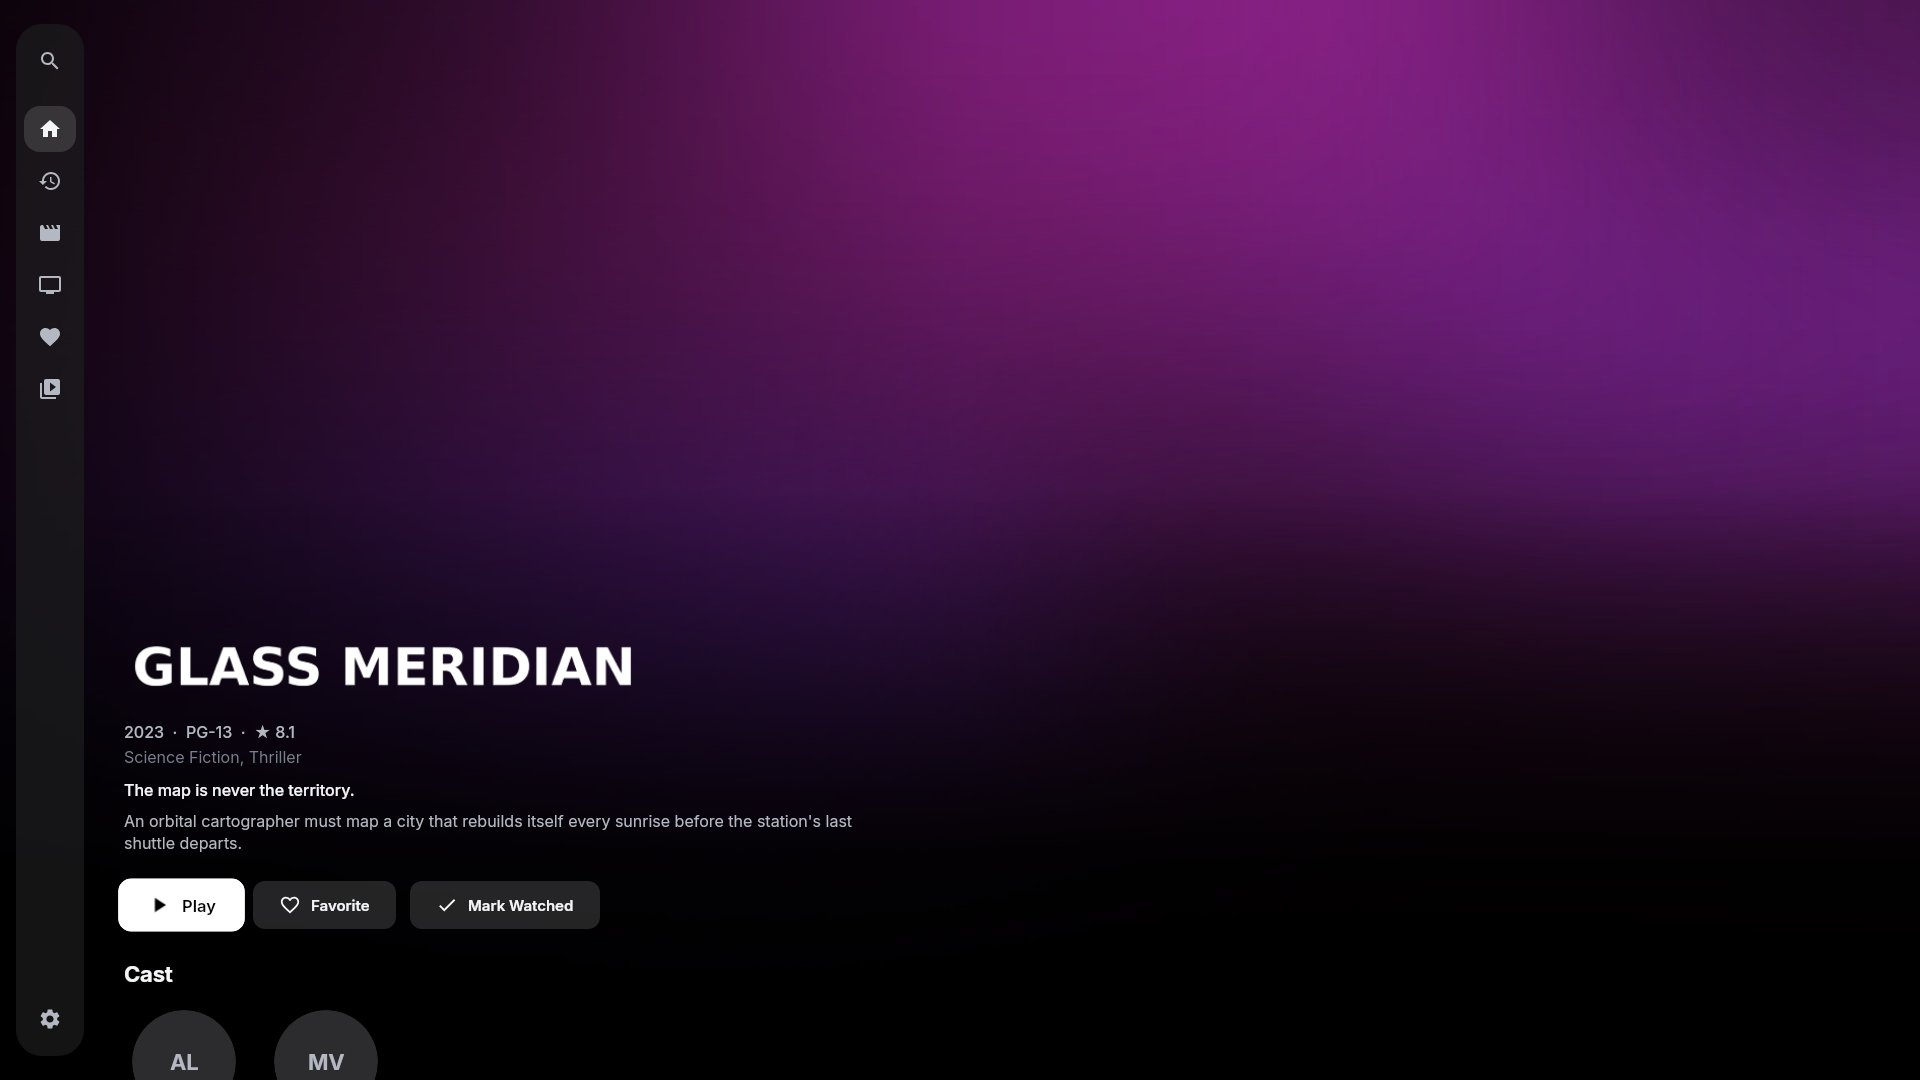
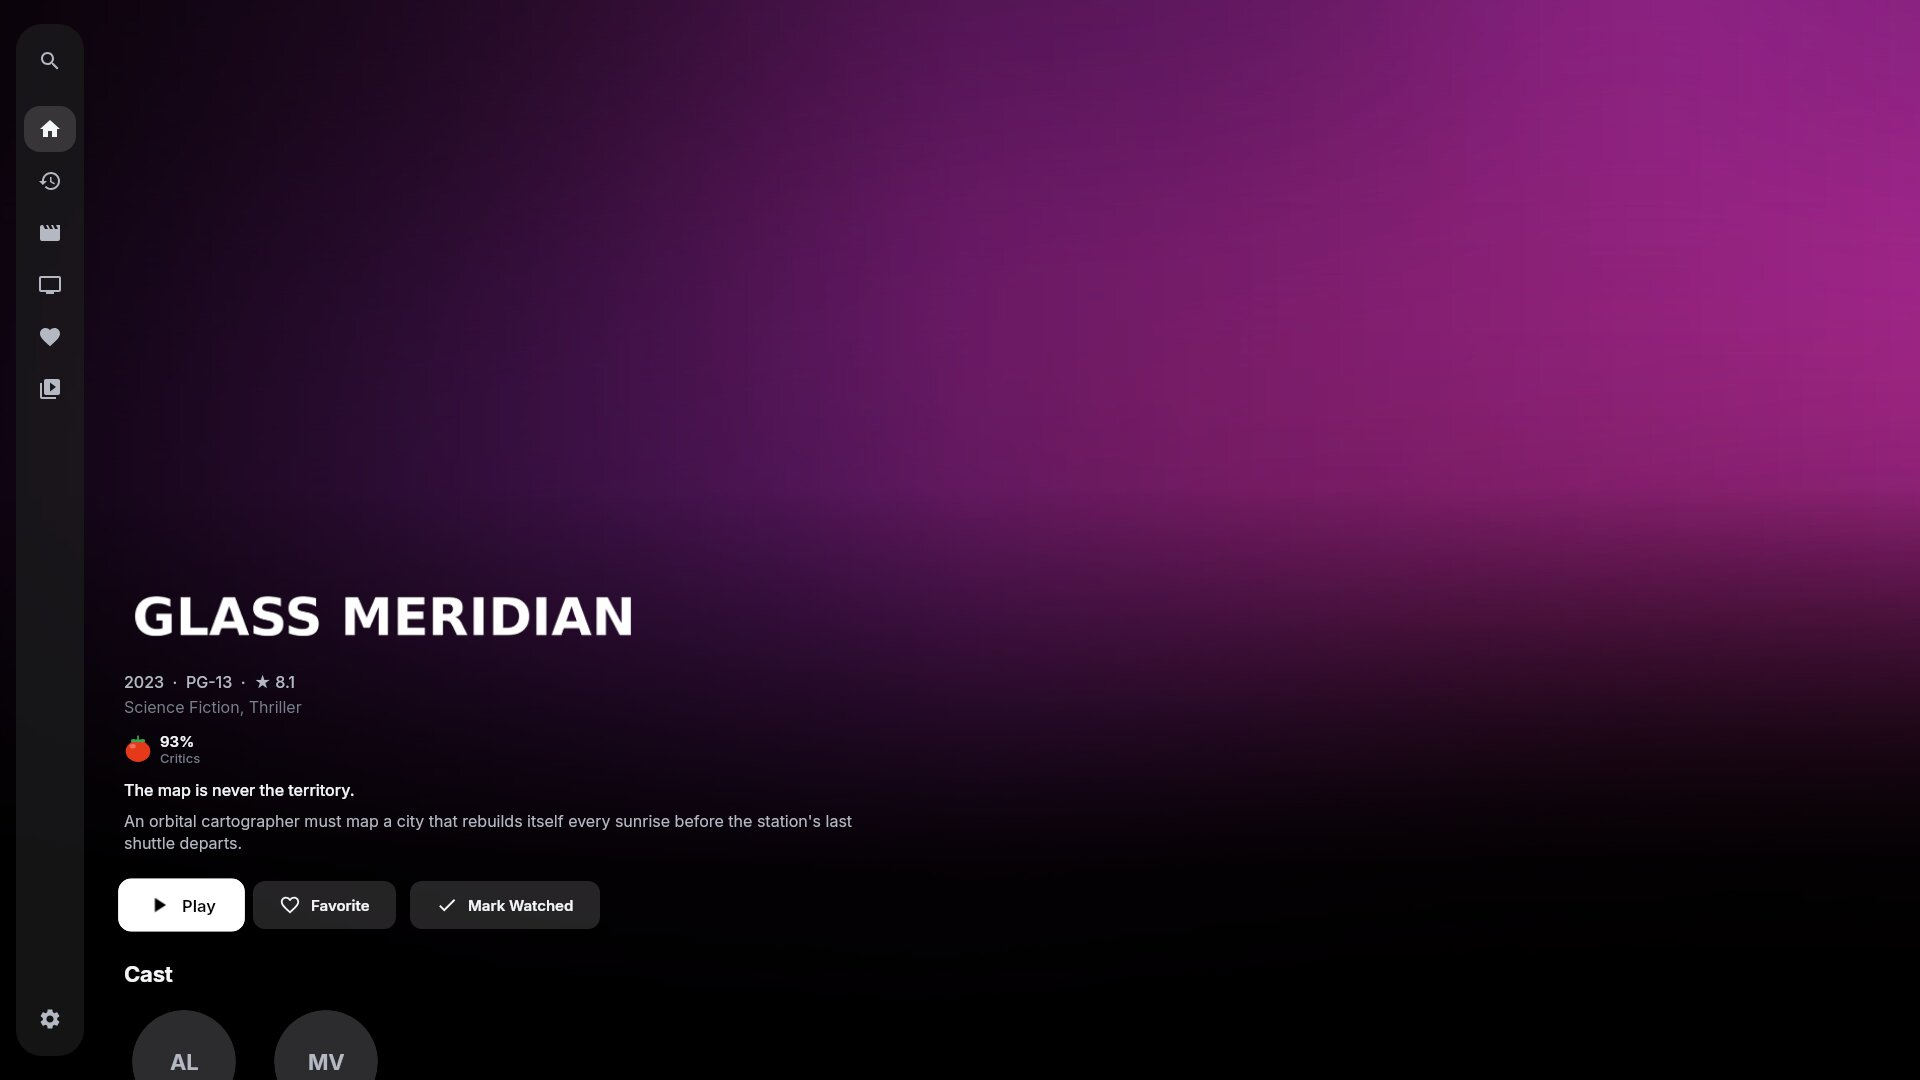
Docs: Dolby Vision and ratings test results and screenshots
Claude-Session: https://claude.ai/code/session_012yVGuueTZLX3f5Rno8LNU3

Changed region(s): [[0.4688, 0.0, 1.0, 0.6722], [0.3438, 0.0, 0.7188, 0.1222], [0.0625, 0.55, 0.3438, 0.7028]]

diff --git a/docs/TEST_RESULTS.md b/docs/TEST_RESULTS.md
@@ -34,6 +34,10 @@ manual claims. Each run publishes its raw reports and screenshots to the
 | Subtitle fonts | MKV font attachments recognised by extension, MIME type or codec |
 | Next Episode | offered from the credits start (chapters, segments or detection), else the final two minutes |
 | Intro/credits detection | recurring chapter lengths across a season → opening/ending; periodic chapters ignored; AniSkip via AniList title search + sequel walk, only for anime, only for missing kinds, title/year must match, Jellyfin token never sent to third parties, nothing sent when the setting is off |
+| Dolby Vision routing | per device type (DV TV with/without libdovi, Shield, HDR10 TV with a DV decoder, SDR TV, Windows/mpv): which `VideoRangeType`s go to the server for HEVC/AV1/VP9 and which path each profile takes (native, 7 → 8.1, base layer, server); DV codec strings |
+| Dolby Vision bitstream edits | enhancement-layer (NAL 63) removal keeps every other unit byte-for-byte; start-code scan across emulation-prevention bytes; HDR10+ SEI masking changes exactly one byte per message, leaves A/53 captions and suffix SEI alone and walks emulation-prevention bytes; non-Annex-B data untouched |
+| Ratings and reviews | MDBList parsing (critics, audience, IMDb + votes, Metacritic, Letterboxd); Trakt comments: spoiler-flagged, spoiler-tagged and one-line comments dropped, reviewer score from either field, private profiles show the username; no keys → server critic score only and no network calls; keys go only to their own service, no Jellyfin credentials leave; session cache and failure back-off; key sync through DisplayPreferences keeps other prefs |
+| Ratings UI (rendered) | ratings strip (fresh/rotten tomato, full/empty popcorn, IMDb, Metascore, Letterboxd), review cards with star scores, full-review overlay opened by click and closed by Back; screenshots saved with the test reports (`ui-shots/`) |
 
 **Result: all passing.**
 
@@ -51,6 +55,9 @@ and NFO metadata (`ci/make_artwork.py`), starts `jellyfin/jellyfin:latest` in Do
 | Ember Field | **4K HEVC Main10 HDR10** (PQ/BT.2020, mastering display + MaxCLL), E-AC3 5.1 |
 | Old Reel | MPEG-4 Part 2 + MP3 in AVI (needs server transcoding on TV) |
 | Skylark Isles S01E01–03 | **Anime-style ASS typesetting**: rotated and moving signs, `\clip`, `\t` transforms, karaoke OP romaji, overlapping dialogue, embedded font; HEVC Main10 |
+| Prism Coast | **Dolby Vision 8.1** (HDR10 base layer): RPUs from `dovi_tool generate`, muxed by mkvmerge (config record: profile 8, compatibility 1) |
+| Neon Tide | **Dolby Vision 5** (no base layer): dovi_tool's profile 5 test RPU on every frame (profile 5, compatibility 0) |
+| Velvet Static | **Dolby Vision 7 FEL** (UHD Blu-ray style): dovi_tool's FEL test RPU (profile 7, compatibility 6, EL present) |
 
 | | Check | Result |
 |---|---|---|
@@ -60,7 +67,7 @@ and NFO metadata (`ci/make_artwork.py`), starts `jellyfin/jellyfin:latest` in Do
 | ✅ | Session restore after relaunch | restored |
 | ✅ | Expired/invalid token detected | SessionExpired |
 | ✅ | Libraries | Movies (movies), TV Shows (tvshows) |
-| ✅ | Library pagination | 5 movies over 3 pages of 2, no duplicates |
+| ✅ | Library pagination | 8 movies over 4 pages of 2, no duplicates |
 | ✅ | Search | "meridian" → Glass Meridian |
 | ✅ | Metadata + artwork from server | overview, genres, poster served as image/jpeg, BlurHash present |
 | ✅ | HEVC Main10 + ASS → Direct Play on HEVC-capable Fire TV profile | hevc Main 10, 10-bit → DirectPlay; ASS delivery = Embed |
@@ -69,6 +76,11 @@ and NFO metadata (`ci/make_artwork.py`), starts `jellyfin/jellyfin:latest` in Do
 | ✅ | ASS burned in when the device has no ASS renderer | Transcode; ASS delivery = Encode (never flattened to SRT) |
 | ⚠ | 4K HDR10 Direct Play / server tone-mapping decisions | not verifiable on this server: Jellyfin 12.4's probe reported the PQ/BT.2020 sample as SDR (ffprobe in the CI log confirms the file is PQ). The HDR decision logic is covered by `DeviceProfileTest`. |
 | ✅ | 4K HDR10 → Direct Play on Windows/mpv | DirectPlay (mpv tone-maps locally) |
+| ✅ | Dolby Vision 8.1 (`DOVIWithHDR10`) | DV TV = Direct Play, HDR10 TV = Direct Play (base layer), SDR TV = server converts, Windows = Direct Play |
+| ✅ | Dolby Vision 5 (`DOVI`) | DV TV = Direct Play, HDR10 TV = server converts, SDR TV = server converts, Windows = Direct Play |
+| ✅ | Dolby Vision 7 FEL (`DOVIWithEL`) | DV TV (profile 8 decoder + libdovi) = Direct Play, HDR10 TV = Direct Play (base layer), SDR TV = server converts, Windows = Direct Play |
+| ✅ | Critic score from server metadata | `CriticRating` 93 → tomatometer 93% |
+| ✅ | Rating keys typed on one device reach another | written to the user's DisplayPreferences by one key store, read into another device's vault |
 | ✅ | MPEG-4/AVI → transcode on Fire TV, Direct Play on mpv | Fire TV = Transcode (ContainerNotSupported, VideoCodecNotSupported, AudioCodecNotSupported); Windows = DirectPlay |
 | ✅ | Multi-track MKV: audio/subtitle selection | 3 audio (aac, ac3, eac3), 3 subs; ja → jpn, forced → English Forced, smart → English Full; DirectPlay |
 | ✅ | External SRT sidecar detected | 2 subtitle streams, 1 external |
@@ -94,6 +106,13 @@ The MSI/EXE/portable build is packaged on `windows-2022`, then the **packaged** 
 | Old Reel: MPEG-4 Part 2 AVI, MP3 | PASS |
 | Seven Rivers: 3 audio / 3 subtitle tracks | PASS (forced subtitle rendered: `[FORCED] Sign: "Station"`) |
 | Skylark Isles S01E01–E03: HEVC Main10 + anime ASS | PASS |
+| Prism Coast: Dolby Vision 8.1 | PASS, `doviProfile=8 colormatrix=dolbyvision` |
+| Neon Tide: Dolby Vision 5 | PASS, `doviProfile=5 colormatrix=dolbyvision` |
+| Velvet Static: Dolby Vision 7 FEL | PASS, `doviProfile=7 colormatrix=dolbyvision` |
+
+`colormatrix=dolbyvision` means mpv picked up the RPU metadata and hands it to libplacebo, which
+applies the Dolby Vision reshaping when rendering with gpu-next (the self-test decodes with `vo=null`,
+so the reshaped picture itself is checked on real hardware only).
 
 The runner has no GPU, so decoding was software (`hwdec=no`); D3D11VA/NVDEC hardware decoding needs
 real hardware. The first run found that libmpv requires `vulkan-1.dll`, which PCs without GPU drivers
@@ -113,7 +132,7 @@ server. Debug builds log every remote key the activity receives, so the run prov
 * **D-pad Down** moved focus from the hero into the first rail; **Right + Select** opened that movie's
   detail page; **Back** returned Home with focus restored to the same card; **Back** again opened the
   sidebar; **Down + Select** in the sidebar switched to Up Next ✅
-* **D-pad Down ×4** in Settings reached the About page, which lists the detected decoders and
+* **D-pad Down ×4** in Settings reached the new Ratings page, and once more the About page, which lists the detected decoders and
   capabilities (Media3 1.8.0, software H.264/HEVC on the emulator, Keystore token storage) ✅
 * played video through Media3. The emulator's decoders were probed (software, ≤1080p) and the
   app chose **Direct Play** for H.264 MKV and asked the server to **transcode** HEVC Main10, with
@@ -122,14 +141,17 @@ server. Debug builds log every remote key the activity receives, so the run prov
   transform, karaoke romaji and overlapping dialogue, plus colours, `\pos` and simultaneous top/bottom
   lines in the styled sample (see screenshots) ✅
 * player controls (progress bar, elapsed/remaining, transport, audio/subtitle/info, next episode) ✅
-* no crashes (`FATAL EXCEPTION` check on logcat) ✅
+* no crashes (`FATAL EXCEPTION` check on logcat) ✅; every ExoPlayer playback above already runs
+  through the new Dolby Vision-aware video renderer. The emulator reports no DV decoder and no HDR
+  display (`Dolby Vision: display=false decoderProfiles=[]` in the log), so the DV-specific paths
+  themselves (native, 7 → 8.1, HDR10+ masking) can't run there
 * **MPV player** (switched with the `player` launch extra, same as the setting): the anime typesetting
   episode and the HEVC Main10 movie through server transcoding, and the multi-track MKV by Direct Play.
   Rotated/moving signs, `\clip` + `\t`, karaoke and fades rendered by mpv's libass; the server's font
   attachment was downloaded and used, matching ExoPlayer pixel-for-pixel in typeface ✅
 * **Server font attachments for transcodes**: both engines now use the MKV's embedded font when the
   server transcodes (ExoPlayer previously fell back to the system font) ✅
-* **R8-shrunk release APK** (13 MB): fresh install, sign-in with the remote, Home, then playback of
+* **R8-shrunk release APK** (with libmpv, FFmpeg and libdovi): fresh install, sign-in with the remote, Home, then playback of
   the anime ASS episode and the HEVC Main10 movie through Media3 + libass + FFmpeg, then the HEVC movie
   again through libmpv. The run fails on
   any crash, missing class or native-library error, or if the player never reaches the READY state ✅
@@ -146,6 +168,7 @@ re-running the job fixes it.
 
 ## Not tested in CI (needs real hardware)
 
-Fire TV hardware decoders (HEVC/AV1/DV), HDMI audio passthrough, HDR output on a TV, libass overlay
+Fire TV hardware decoders (HEVC/AV1/DV) and Dolby Vision output (native, profile 7 → 8.1 conversion,
+HDR10+ masking), live MDBList/Trakt calls with real keys, HDMI audio passthrough, HDR output on a TV, libass overlay
 performance on low-end sticks, Windows GPU decoding and HDR output, Xbox controllers. See
 [Known limitations](KNOWN_LIMITATIONS.md).

diff --git a/docs/screenshots/README.md b/docs/screenshots/README.md
@@ -12,16 +12,25 @@ library (all artwork, titles and video are generated, nothing third-party).
 | ![](android-tv-04-sidebar.jpg) Back → the sidebar opens | ![](android-tv-05-series-detail.jpg) Series detail with episodes |
 | ![](android-tv-07-player-yellow-intro-credits.jpg) Player: intro and credits ranges in yellow on the scrubber, Back, Episodes/Chapters/Subtitles/Info | ![](android-tv-06-libass-anime-typesetting.jpg) libass: rotated/moving signs, `\clip`+`\t`, karaoke |
 | ![](android-tv-10-player-episode-browser.jpg) In-player episode browser (Down from the timeline) | ![](android-tv-08-hevc-main10-styled-ass.jpg) Styled ASS (colours, `\pos`, simultaneous lines) |
-| ![](android-tv-09-about-capabilities.jpg) Settings → About: detected capabilities | |
+| ![](android-tv-09-about-capabilities.jpg) Settings → About: detected capabilities | ![](android-tv-11-settings-ratings.jpg) Settings → Ratings: optional MDBList / Trakt keys |
 
 ## Desktop (same shared UI; Linux build under Xvfb in CI)
 
 | | |
 |---|---|
 | ![](desktop-01-home-dark.jpg) Home (Dark) | ![](desktop-05-home-light.jpg) Home (Light) |
-| ![](desktop-02-movie-detail.jpg) Movie detail | ![](desktop-03-series.jpg) Series |
+| ![](desktop-02-movie-detail.jpg) Movie detail with the critics score from the server | ![](desktop-03-series.jpg) Series |
 | ![](desktop-06-series-light.jpg) Series (Light) | ![](desktop-04-movies-library.jpg) Library with sort/filter |
 | ![](desktop-07-settings.jpg) Settings | ![](windows-01-first-launch.jpg) Packaged Windows app, first launch on a Windows runner |
+
+## Ratings and reviews (rendered by the UI test with sample data)
+
+The CI server has no MDBList/Trakt keys, so these two come from `RatingsUiTest`, which renders the real
+components with sample scores and reviews (marked as such here; no live data).
+
+| | |
+|---|---|
+| ![](ui-ratings-and-reviews.jpg) Critics (tomato) and audience (popcorn) meters, IMDb, Metascore, Letterboxd; spoiler-free review cards with each reviewer's score | ![](ui-review-overlay.jpg) A review opened in full (Up/Down scroll, Back closes) |
 
 Windows playback (mpv video window with the transparent Aurora controls on top) is captured on every
 CI run against the public Jellyfin demo server. Those images contain third-party film artwork, so they
